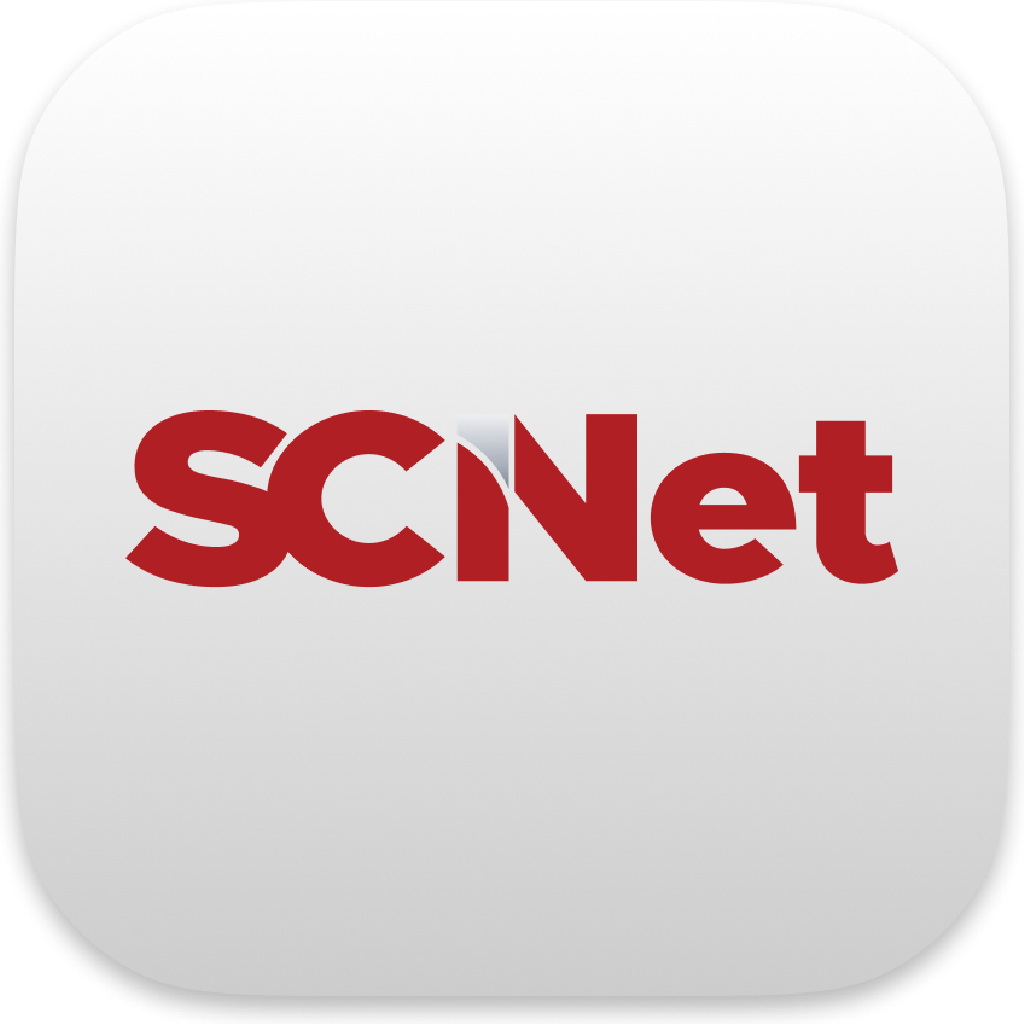
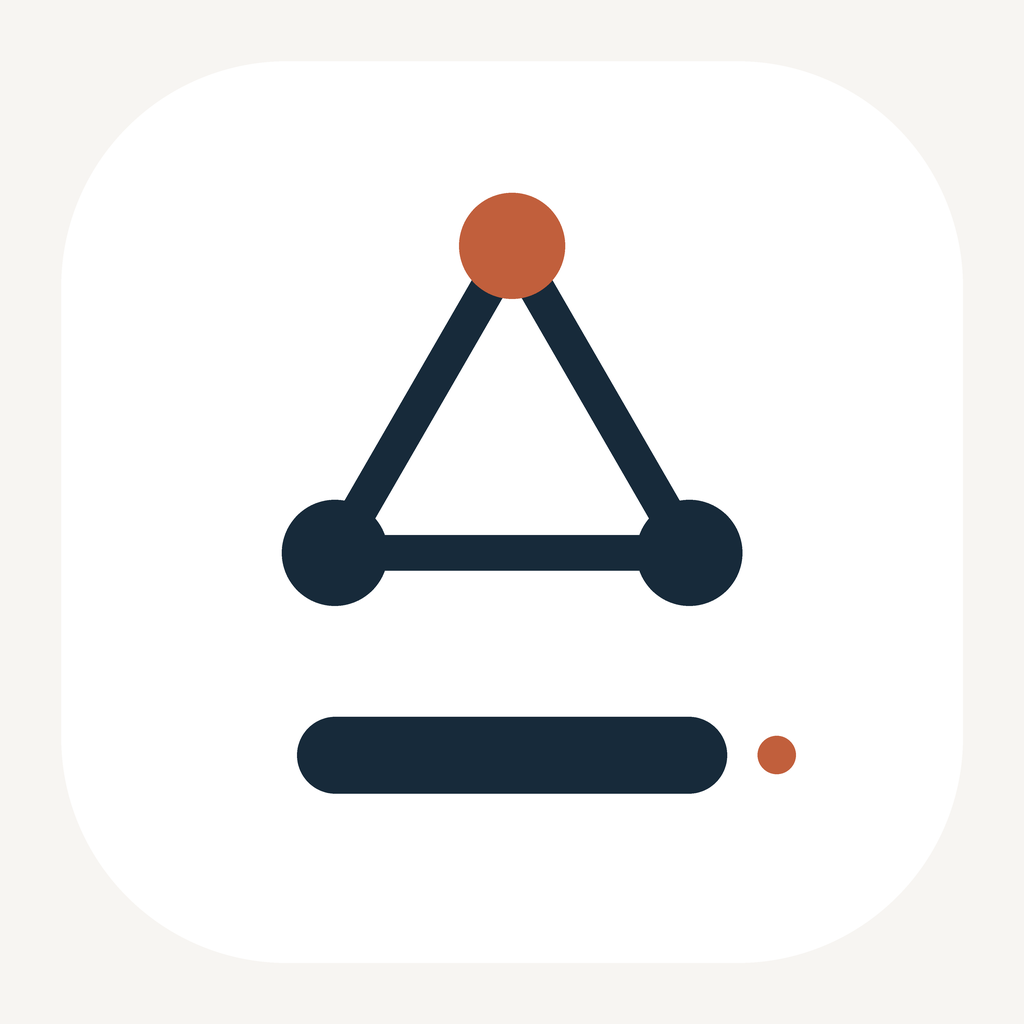
feat(brand): 中性应用图标 + 应用名；docs 更新
- 用 PIL 生成中性图标（三个节点 + 调度连线，暖砂底/深蓝+陶土色），
  替换原厂商 APK 的 logo：AppScope/app_icon.png(1024) 与 entry 内 startIcon/app_icon(512)
- 应用名：SCNet Lite → 超级计算智能体（module_desc 标注非官方）
- TODO 勾掉「发布前换图标」，补深色模式为剩余 UI 项
- VERIFY 增加「2026-11-10 下午这批改动」表格，区分已验 / 待用户验

diff --git a/docs/VERIFY.md b/docs/VERIFY.md
@@ -147,6 +147,21 @@ hdc shell aa start -a EntryAbility -b cn.scnet.hmos
 - **取消作业**：契约已用 curl 验证，UI 弹层未点确认（会真取消用户的作业）
 - **附件上传完整链路**：本机 curl 端到端验过（智能体读到文件答 33），App 内选文件走系统 picker 待人工点一次
 
+## 2026-11-10 下午这批改动（已真机验 / 待你验）
+
+| 项 | 结果 |
+| --- | --- |
+| 抽屉顺序 算力服务→插件→AI社区→应用商城→文字识别 | ✅ 真机截图 |
+| 应用商城（内嵌 `/ui/mall`） | ✅ 真机（能看到 Token Plan 专区、算力市场） |
+| 首页 banner（`config/list.recommendAD`） | ✅ 真机（AI生态伙伴加速计划 / DeepSeek） |
+| OCR 三模式（识别 / 文档解析 / 格式转换） | ✅ 真机（后两者给说明卡 + 打开平台页，不做假入口） |
+| 网关设置移出抽屉 | ✅ 真机（抽屉里已无 API Key/Base URL） |
+| 账号页新增「自定义模型」「充值 / 控制台」两行 | ✅ 真机 |
+| 头像面板（8 款内置 / 相册 / 生成式入口） | ✅ 面板渲染正常；**选中态待你点一下确认** |
+| 应用图标 + 应用名 | ✅ 已换（三节点中性图标 / 「超级计算智能体」），装完可在桌面看到 |
+| 自定义 provider 实际发消息 | ⏳ 需要你填一个真端点（默认仍是平台网关） |
+| 附件两个入口（图片 / 文件）+ 失败原因直出 | ⏳ 需要你在真机上选一次图/文件 |
+
 ## 环境问题（会挡住后来者）
 
 `hdc` 需要 udev 规则才能以普通用户访问 USB 设备，否则 `hdc list targets` 一直是 `[Empty]`：

diff --git a/docs/TODO.md b/docs/TODO.md
@@ -19,7 +19,7 @@
 - [x] 错误路径可读（401/402 是**无换行单行 JSON**，已修 buffer 冲刷）
 - [x] 真机验证：出字 / 停止 / 402 文案 / 重启保持登录
 
-## B. UI（当前重点）
+## B. UI
 
 - [x] 设计令牌统一到 `common/Theme.ets`（颜色/圆角/间距/字号/阴影）
 - [x] Markdown 渲染（标题/列表/引用/代码块/行内粗斜码），替代裸文本
@@ -35,8 +35,9 @@
 - [ ] 重新生成（需要有 messageId 关联，智能体通道再考虑）
 - [ ] 深色模式（Theme 已集中，改造点单一）
 - [x] 表格渲染（`|a|b|` + 分隔行 → 原生表格，窄屏横向滚动）
-- [ ] 应用图标仍是官方 APK 的 logo（仅调试用），发布前必须换成自有图标
-- [ ] 空状态那次"诡异首条气泡"的根因（重启偶发一次，未复现）
+- [x] 应用图标已换成中性设计（三节点调度意象，无厂商商标）；应用名改为「超级计算智能体」
+- [ ] 深色模式（Theme 已集中，改造点单一，但需要真机逐页校色）
+- [ ] 空状态"诡异首条气泡"（重启偶发，未复现；怀疑是流式占位与消息列表共用索引）
 
 ## C. 会话与上下文
 
